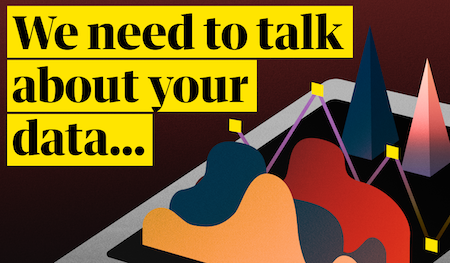
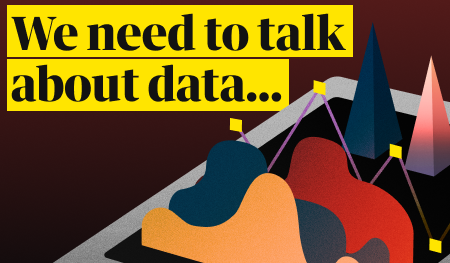
update cmp image and copy

diff --git a/app/client/components/consent/PrivacySettings.tsx b/app/client/components/consent/PrivacySettings.tsx
@@ -386,16 +386,16 @@ export class PrivacySettings extends Component<{}, State> {
                 service to you.{" "}
               </p>
               <p>
-                Our advertising partners would like to do the same so the
+                Our advertising partners would like to do the same – so the
                 adverts are more relevant, and we make more money to invest in
-                Guardian journalism. To find out more, read our{" "}
+                Guardian journalism. By using this site, you agree to our{" "}
                 <a href={privacyPolicyURL} target="_blank">
                   privacy policy
                 </a>{" "}
                 and{" "}
                 <a href={cookiePolicyURL} target="_blank">
                   cookie policy
-                </a>.
+                </a>
               </p>
               <div
                 css={css`
